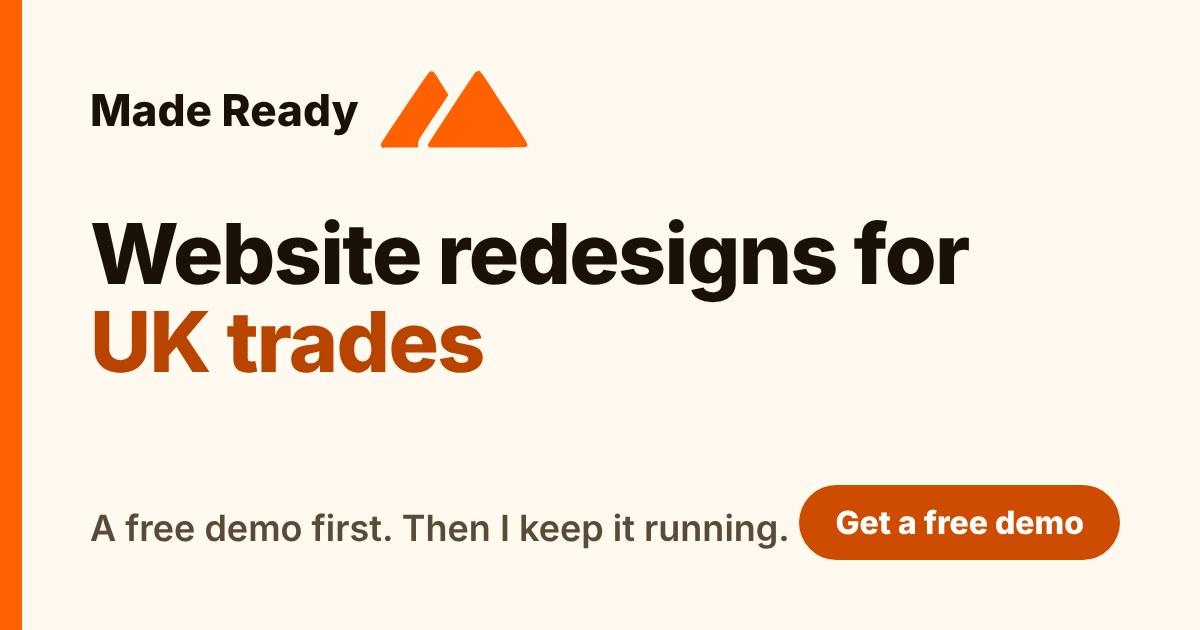
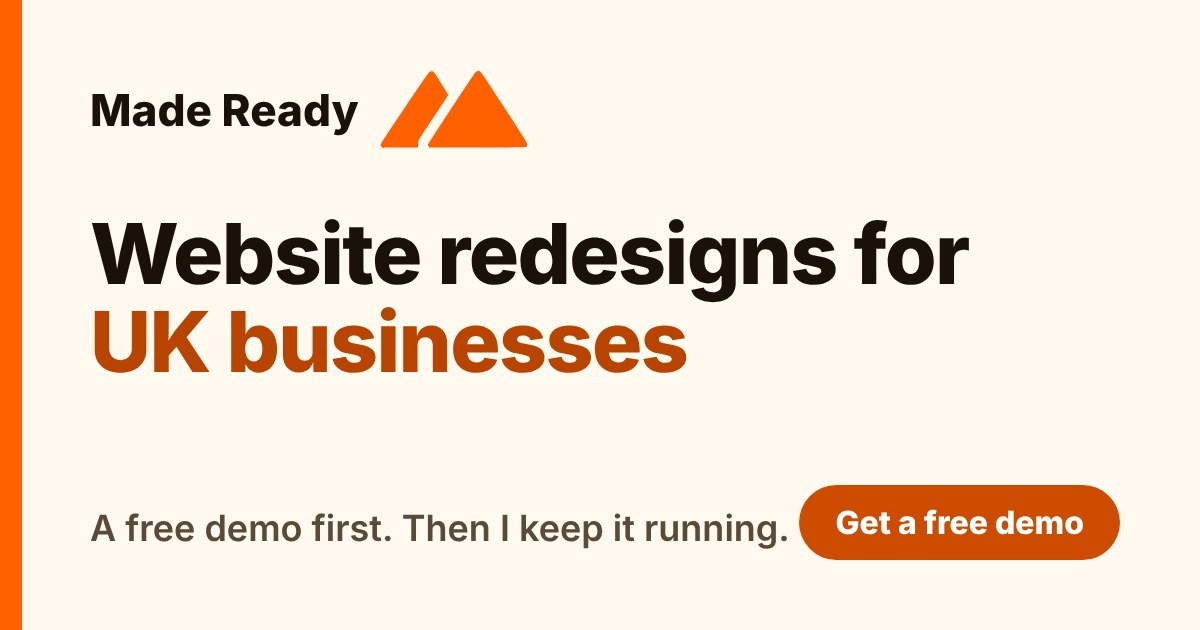
New hero headline; change trades to businesses in eyebrow, meta and share image
Claude-Session: https://claude.ai/code/session_013kJm8n9VMsBvJKnJVsdST5

Changed region(s): [[0.185, 0.4825, 0.5858, 0.6032]]

diff --git a/index.html b/index.html
@@ -3,9 +3,9 @@
 <head>
 <meta charset="utf-8">
 <meta name="viewport" content="width=device-width, initial-scale=1">
-<title>Website redesigns for UK trades | Made Ready</title>
+<title>Website redesigns for UK businesses | Made Ready</title>
 <meta name="description" content="I build you a free demo of your new website first. You only pay if you love it. Then I keep it updated, secure and backed up for a monthly fee.">
-<meta property="og:title" content="Website redesigns for UK trades | Made Ready">
+<meta property="og:title" content="Website redesigns for UK businesses | Made Ready">
 <meta property="og:description" content="I build you a free demo of your new website first. You only pay if you love it. Then I keep it updated, secure and backed up for a monthly fee.">
 <meta property="og:type" content="website">
 <link rel="canonical" href="https://madeready.co/">
@@ -16,19 +16,19 @@
 <meta property="og:image:type" content="image/jpeg">
 <meta property="og:image:width" content="1200">
 <meta property="og:image:height" content="630">
-<meta property="og:image:alt" content="Made Ready: website redesigns for UK trades, with a free demo first.">
+<meta property="og:image:alt" content="Made Ready: website redesigns for UK businesses, with a free demo first.">
 <meta name="twitter:card" content="summary_large_image">
-<meta name="twitter:title" content="Website redesigns for UK trades | Made Ready">
+<meta name="twitter:title" content="Website redesigns for UK businesses | Made Ready">
 <meta name="twitter:description" content="I build you a free demo of your new website first. You only pay if you love it. Then I keep it updated, secure and backed up for a monthly fee.">
 <meta name="twitter:image" content="https://madeready.co/images/og-share.jpg">
-<meta name="twitter:image:alt" content="Made Ready: website redesigns for UK trades, with a free demo first.">
+<meta name="twitter:image:alt" content="Made Ready: website redesigns for UK businesses, with a free demo first.">
 <meta name="theme-color" content="#FFF9F0">
 <link rel="icon" href="/images/favicon.ico" sizes="any">
 <link rel="icon" type="image/png" sizes="192x192" href="/images/android-chrome-192x192.png">
 <link rel="apple-touch-icon" href="/images/apple-touch-icon.png">
 <link rel="manifest" href="/site.webmanifest">
 <link rel="stylesheet" href="/styles.css">
-<script type="application/ld+json">{"@context":"https://schema.org","@type":"ProfessionalService","name":"Made Ready","url":"https://madeready.co","areaServed":"GB","address":{"@type":"PostalAddress","addressLocality":"Leicester","addressCountry":"GB"},"description":"Website redesigns and monthly care plans for UK trades."}</script>
+<script type="application/ld+json">{"@context":"https://schema.org","@type":"ProfessionalService","name":"Made Ready","url":"https://madeready.co","areaServed":"GB","address":{"@type":"PostalAddress","addressLocality":"Leicester","addressCountry":"GB"},"description":"Website redesigns and monthly care plans for UK businesses."}</script>
 </head>
 <body>
 <a class="skip" href="#main">Skip to content</a>
@@ -53,11 +53,11 @@
 
 <main id="main">
 <section class="hero"><div class="wrap">
-<p class="eyebrow">Websites for UK trades · Leicester</p>
-<h1>Look as good online as your work does.</h1>
-<p class="lede">I build a demo of your new website first, free. You see it on your own phone. If you like it, we launch it and I look after it every month.</p>
+<p class="eyebrow">Websites for UK businesses · Leicester</p>
+<h1>See your new website before you pay a penny.</h1>
+<p class="lede">I build a free demo of your new website first, and you see it on your own phone. If you like it, we launch it and I look after it every month.</p>
 <div class="actions"><a class="btn" href="#contact">Get a free demo of your site</a><a class="btn ghost" href="#example">See an example</a></div>
-<p class="note">Starting with plumbers and heating engineers. Other trades welcome.</p>
+<p class="note">Starting with plumbers and heating engineers. Other businesses welcome.</p>
 </div></section>
 
 <section class="dark" id="how"><div class="wrap">

diff --git a/privacy.html b/privacy.html
@@ -16,12 +16,12 @@
 <meta property="og:image:type" content="image/jpeg">
 <meta property="og:image:width" content="1200">
 <meta property="og:image:height" content="630">
-<meta property="og:image:alt" content="Made Ready: website redesigns for UK trades, with a free demo first.">
+<meta property="og:image:alt" content="Made Ready: website redesigns for UK businesses, with a free demo first.">
 <meta name="twitter:card" content="summary_large_image">
 <meta name="twitter:title" content="Privacy notice | Made Ready">
 <meta name="twitter:description" content="How Made Ready handles your personal information.">
 <meta name="twitter:image" content="https://madeready.co/images/og-share.jpg">
-<meta name="twitter:image:alt" content="Made Ready: website redesigns for UK trades, with a free demo first.">
+<meta name="twitter:image:alt" content="Made Ready: website redesigns for UK businesses, with a free demo first.">
 <meta name="theme-color" content="#FFF9F0">
 <link rel="icon" href="/images/favicon.ico" sizes="any">
 <link rel="icon" type="image/png" sizes="192x192" href="/images/android-chrome-192x192.png">

diff --git a/terms.html b/terms.html
@@ -16,12 +16,12 @@
 <meta property="og:image:type" content="image/jpeg">
 <meta property="og:image:width" content="1200">
 <meta property="og:image:height" content="630">
-<meta property="og:image:alt" content="Made Ready: website redesigns for UK trades, with a free demo first.">
+<meta property="og:image:alt" content="Made Ready: website redesigns for UK businesses, with a free demo first.">
 <meta name="twitter:card" content="summary_large_image">
 <meta name="twitter:title" content="Terms | Made Ready">
 <meta name="twitter:description" content="The terms of a Made Ready care plan.">
 <meta name="twitter:image" content="https://madeready.co/images/og-share.jpg">
-<meta name="twitter:image:alt" content="Made Ready: website redesigns for UK trades, with a free demo first.">
+<meta name="twitter:image:alt" content="Made Ready: website redesigns for UK businesses, with a free demo first.">
 <meta name="robots" content="noindex">
 <meta name="theme-color" content="#FFF9F0">
 <link rel="icon" href="/images/favicon.ico" sizes="any">
